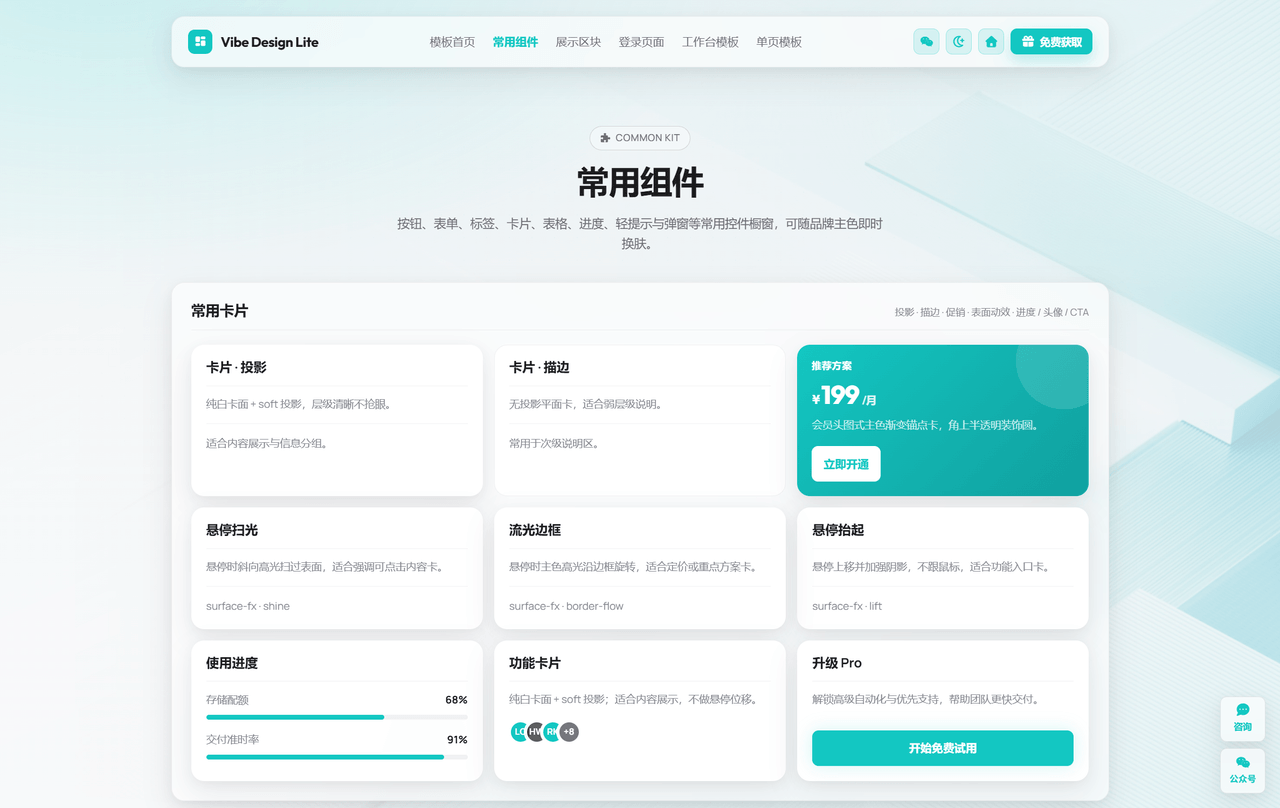
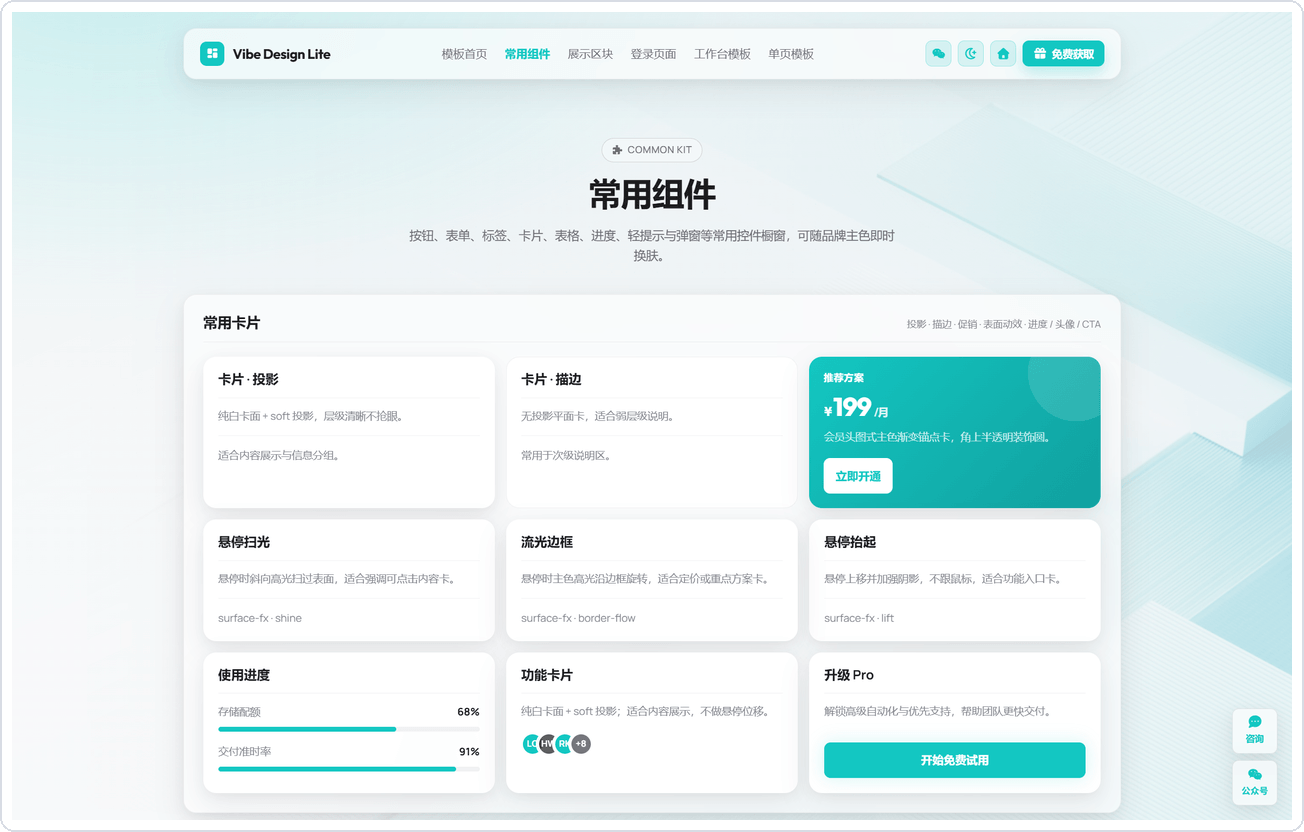
Bake screenshot borders for GitHub README rendering

diff --git a/scripts/frame-screenshots.py b/scripts/frame-screenshots.py
@@ -1,0 +1,46 @@
+# -*- coding: utf-8 -*-
+"""为 README 预览图烘焙圆角描边（GitHub 会剥离 img 的 style）。"""
+from __future__ import annotations
+
+from pathlib import Path
+
+from PIL import Image, ImageDraw
+
+SCREENSHOT = Path(__file__).resolve().parent.parent / "screenshot"
+BORDER = 2
+RADIUS = 14
+PAD = 10
+STROKE = (216, 220, 228, 255)
+BG = (255, 255, 255, 255)
+
+
+def frame_image(path: Path) -> None:
+    src = Image.open(path).convert("RGBA")
+    w, h = src.size
+    inset = BORDER + PAD
+    cw, ch = w + 2 * inset, h + 2 * inset
+    out = Image.new("RGBA", (cw, ch), (0, 0, 0, 0))
+    draw = ImageDraw.Draw(out)
+    draw.rounded_rectangle(
+        [0, 0, cw - 1, ch - 1],
+        radius=RADIUS,
+        fill=BG,
+        outline=STROKE,
+        width=BORDER,
+    )
+    out.paste(src, (inset, inset), src)
+    rgb = Image.new("RGB", out.size, (255, 255, 255))
+    rgb.paste(out, mask=out.split()[3])
+    rgb.save(path, "PNG", optimize=True)
+    print(f"framed {path.name} {w}x{h} -> {cw}x{ch}")
+
+
+def main() -> None:
+    for path in sorted(SCREENSHOT.glob("vibe-design-lite-*.png")):
+        if "副本" in path.name or "copy" in path.name.lower():
+            continue
+        frame_image(path)
+
+
+if __name__ == "__main__":
+    main()

diff --git a/README.md b/README.md
@@ -21,49 +21,35 @@
 
 ## 预览截图
 
-> 预览图带圆角描边，便于在 README 中与背景区分；GitHub 上可正常渲染下列 HTML。
+> 圆角与描边已烘焙进 PNG（GitHub README 会剥离 `<img>` 的 `style`，CSS 边框不可靠）。换图后可在本机运行：`python scripts/frame-screenshots.py`。
 
 **落地首页** · `index.html`
 
-<p align="center">
-  <img src="./screenshot/vibe-design-lite-01.png" alt="落地首页" width="960" style="max-width:100%;border:1px solid #e4e4e8;border-radius:12px;box-shadow:0 4px 24px rgba(17,17,19,0.06);" />
-</p>
+<p align="center"><img src="./screenshot/vibe-design-lite-01.png" alt="落地首页" width="900" /></p>
 
 **常用组件** · `components.html`
 
-<p align="center">
-  <img src="./screenshot/vibe-design-lite-02.png" alt="常用组件" width="960" style="max-width:100%;border:1px solid #e4e4e8;border-radius:12px;box-shadow:0 4px 24px rgba(17,17,19,0.06);" />
-</p>
+<p align="center"><img src="./screenshot/vibe-design-lite-02.png" alt="常用组件" width="900" /></p>
 
 **登录页** · `login.html`
 
-<p align="center">
-  <img src="./screenshot/vibe-design-lite-03.png" alt="登录页" width="960" style="max-width:100%;border:1px solid #e4e4e8;border-radius:12px;box-shadow:0 4px 24px rgba(17,17,19,0.06);" />
-</p>
+<p align="center"><img src="./screenshot/vibe-design-lite-03.png" alt="登录页" width="900" /></p>
 
 **工作台概览** · `shell-dashboard.html`（亮色）
 
-<p align="center">
-  <img src="./screenshot/vibe-design-lite-04.png" alt="工作台概览" width="960" style="max-width:100%;border:1px solid #e4e4e8;border-radius:12px;box-shadow:0 4px 24px rgba(17,17,19,0.06);" />
-</p>
+<p align="center"><img src="./screenshot/vibe-design-lite-04.png" alt="工作台概览" width="900" /></p>
 
 **数据列表** · `shell-data.html`（亮色）
 
-<p align="center">
-  <img src="./screenshot/vibe-design-lite-05.png" alt="数据列表" width="960" style="max-width:100%;border:1px solid #e4e4e8;border-radius:12px;box-shadow:0 4px 24px rgba(17,17,19,0.06);" />
-</p>
+<p align="center"><img src="./screenshot/vibe-design-lite-05.png" alt="数据列表" width="900" /></p>
 
 **卡片列表** · `shell-cards.html`（暗色）
 
-<p align="center">
-  <img src="./screenshot/vibe-design-lite-06.png" alt="卡片列表" width="960" style="max-width:100%;border:1px solid #e4e4e8;border-radius:12px;box-shadow:0 4px 24px rgba(17,17,19,0.06);" />
-</p>
+<p align="center"><img src="./screenshot/vibe-design-lite-06.png" alt="卡片列表" width="900" /></p>
 
 **表单页面** · `shell-form.html`（暗色）
 
-<p align="center">
-  <img src="./screenshot/vibe-design-lite-07.png" alt="表单页面" width="960" style="max-width:100%;border:1px solid #e4e4e8;border-radius:12px;box-shadow:0 4px 24px rgba(17,17,19,0.06);" />
-</p>
+<p align="center"><img src="./screenshot/vibe-design-lite-07.png" alt="表单页面" width="900" /></p>
 
 ---
 
